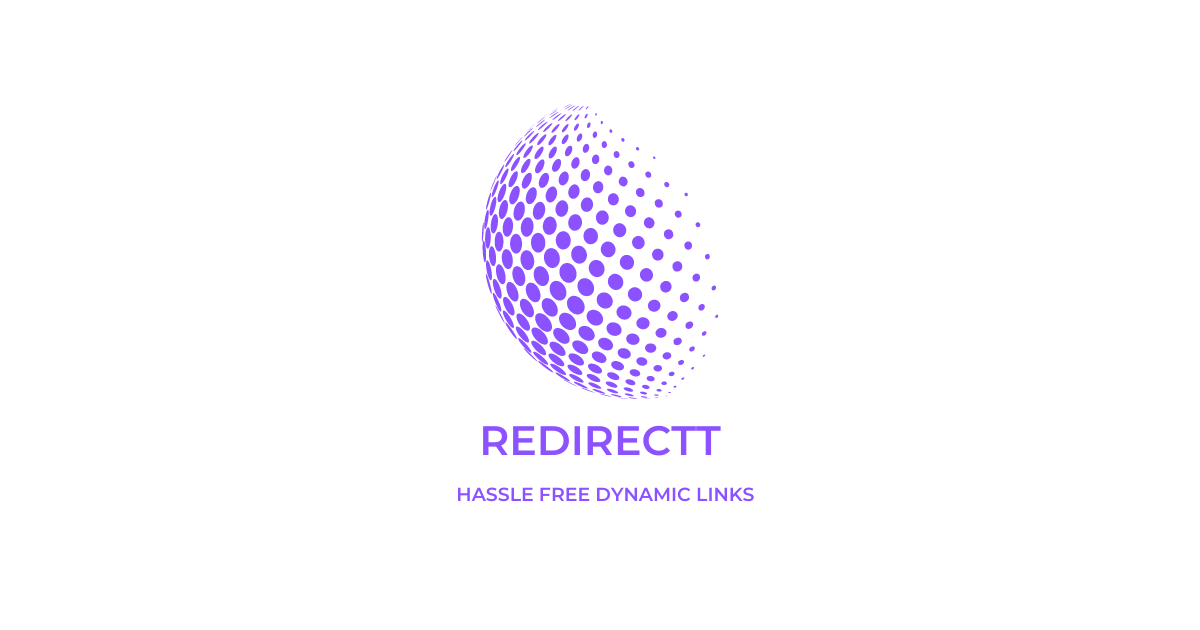
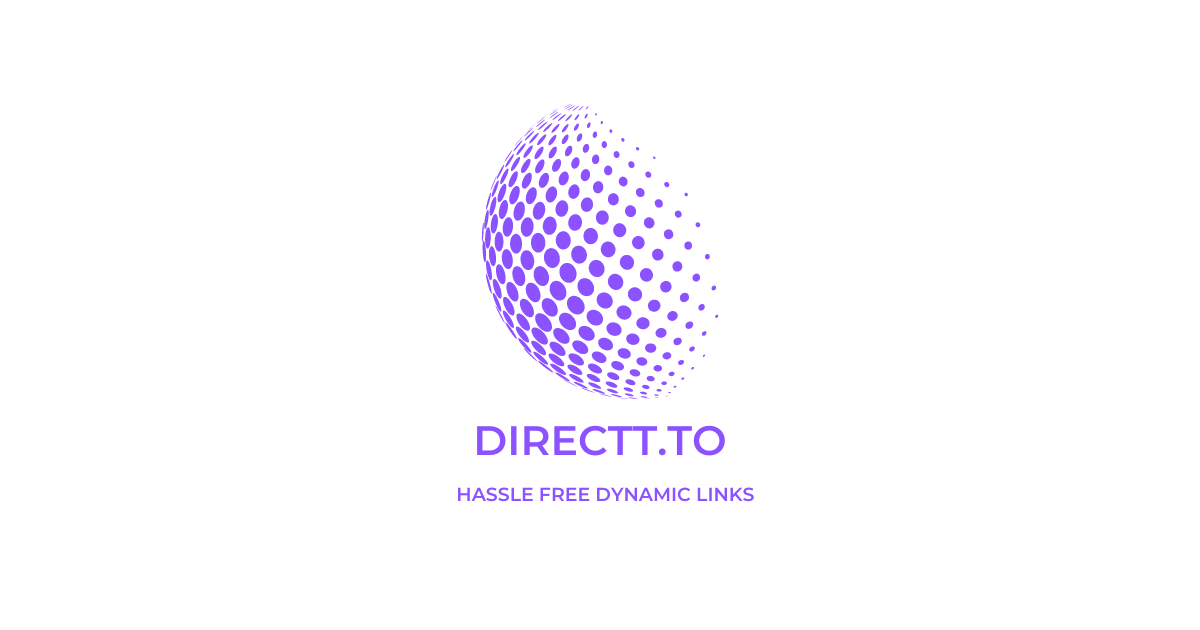
remove unused constants and update og image

Changed region(s): [[0.37, 0.6635, 0.6167, 0.7238]]

diff --git a/src/app/(main)/dashboard/page.tsx b/src/app/(main)/dashboard/page.tsx
@@ -17,10 +17,7 @@ export const metadata: Metadata = {
 interface Props {
   searchParams: Record<string, string | string[] | undefined>;
 }
-
 export default async function DashboardPage({ searchParams }: Props) {
-  // const promises = Promise.all([api.stripe.getPlan.query()]);
-
   const projects = await api.project.list.query();
   const links = await api.link.list.query({});
 

diff --git a/src/lib/constants.ts b/src/lib/constants.ts
@@ -1,5 +1,4 @@
-export const APP_TITLE = "Directt";
-export const DATABASE_PREFIX = "Duy";
+export const APP_TITLE = "Directt.to";
 export const EMAIL_SENDER = '"Acme" <noreply@acme.com>';
 
 export enum Paths {
